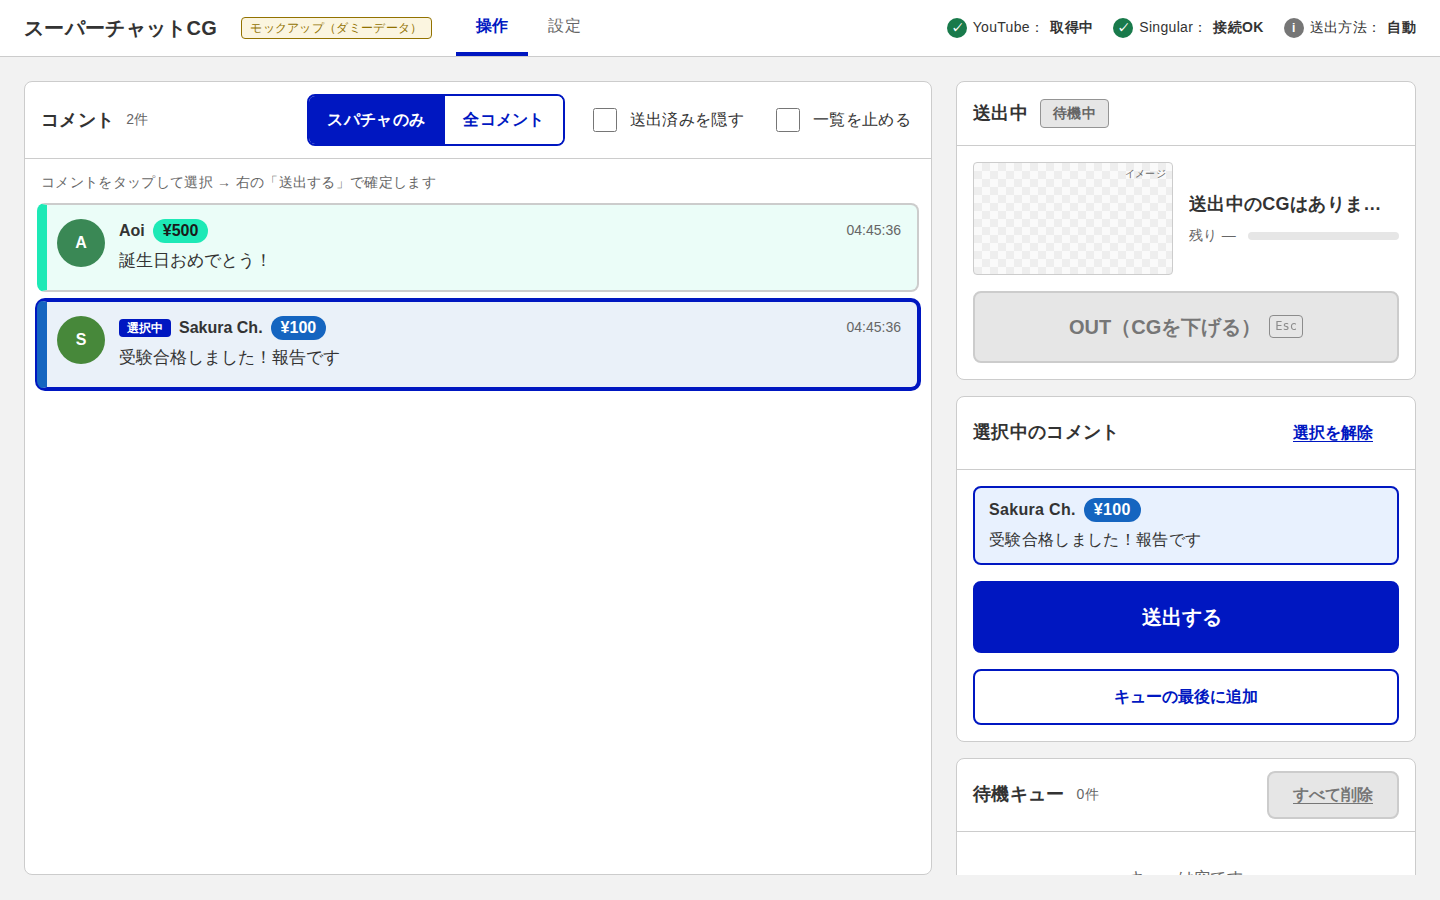
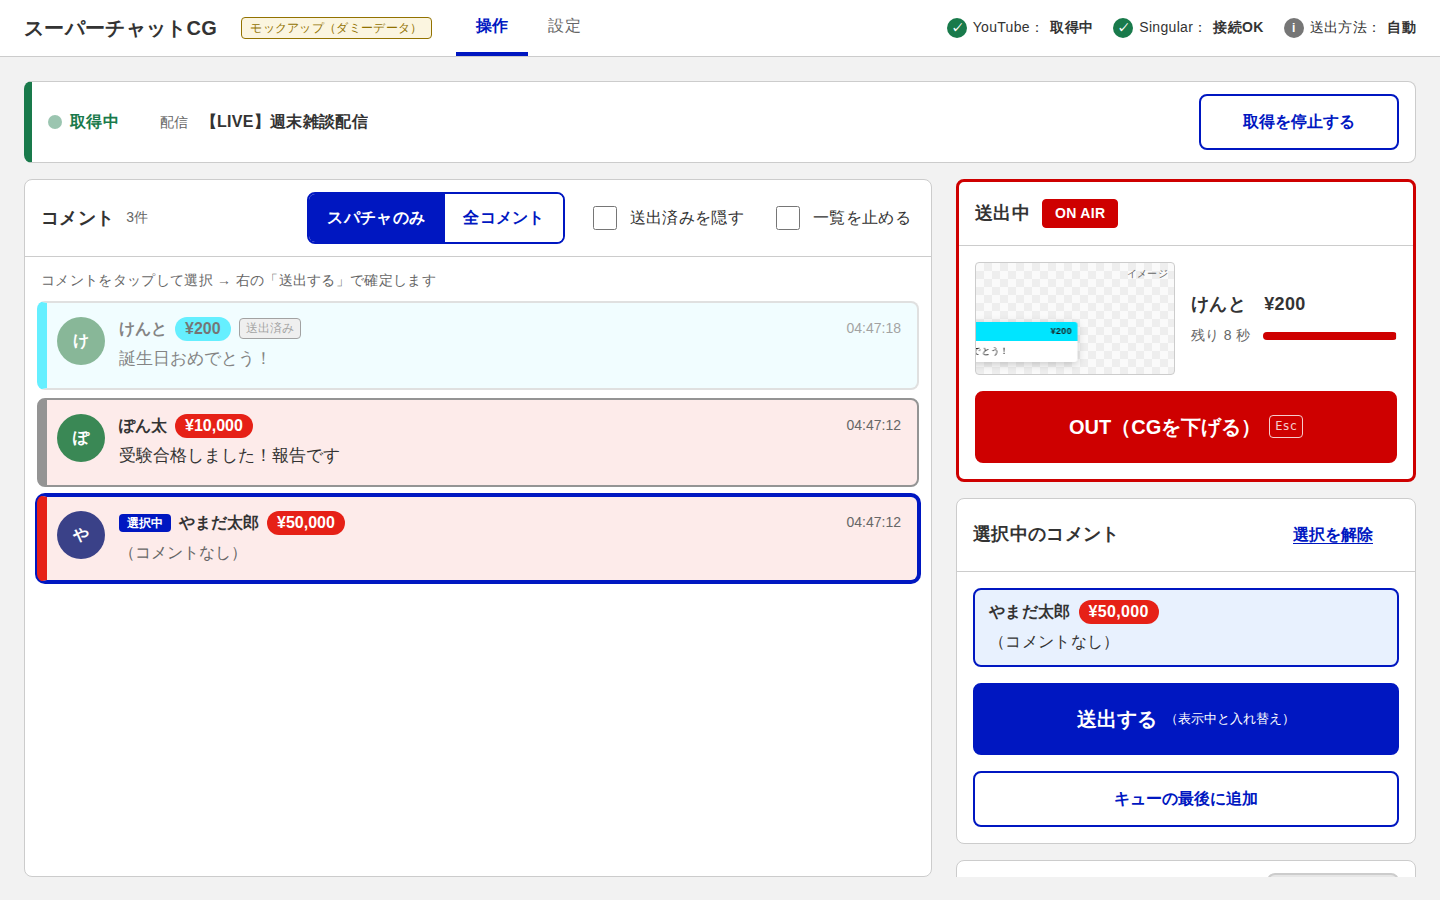
コメント取得の開始・停止を操作画面へ移動（停止時は確認ダイアログ）
Claude-Session: https://claude.ai/code/session_01KgT6C3iMZ94U8jAFNjMxFV

diff --git a/mockup/index.html b/mockup/index.html
@@ -24,6 +24,18 @@
 </header>
 
 <main>
+  <section class="live-bar" id="liveBar" aria-label="コメント取得">
+    <div class="live-state">
+      <span class="live-dot" aria-hidden="true"></span>
+      <b id="liveState">取得中</b>
+    </div>
+    <div class="live-title">
+      <span class="count">配信</span>
+      <span id="liveTitle">【LIVE】週末雑談配信</span>
+    </div>
+    <button class="btn btn-secondary" id="liveBtn">取得を停止する</button>
+  </section>
+
   <div class="ops">
     <!-- コメント一覧 -->
     <section class="card feed-card" aria-labelledby="feed-h">
@@ -133,7 +145,7 @@ function dummy(forceSc) {
 }
 
 // ============ 状態 ============
-const state = { mode: conf.fetchMode, msgs: [], queue: [], current: null, selected: null, outAt: 0, dur: 0 };
+const state = { running: true, mode: conf.fetchMode, msgs: [], queue: [], current: null, selected: null, outAt: 0, dur: 0 };
 const $ = id => document.getElementById(id);
 const esc = s => String(s).replace(/[&<>"]/g, c => ({ '&': '&amp;', '<': '&lt;', '>': '&gt;', '"': '&quot;' }[c]));
 const hms = d => d.toLocaleTimeString('ja-JP', { hour: '2-digit', minute: '2-digit', second: '2-digit' });
@@ -244,7 +256,7 @@ function receive(m) {
   state.msgs.unshift(m); state.msgs = state.msgs.slice(0, 300);
   if (conf.sendMode === 'auto' && m.type !== 'text') enqueue(m); else render();
 }
-setInterval(() => receive(dummy()), 1800);
+setInterval(() => { if (state.running) receive(dummy()); }, 1800);
 for (let i = 0; i < 4; i++) state.msgs.push({ ...dummy(i % 2 === 0), fresh: false });
 
 (function tick() {
@@ -284,6 +296,25 @@ document.addEventListener('keydown', e => {
   if (e.key === 'Escape') { out(); e.preventDefault(); }
   if (e.key === 'n' || e.key === 'N') $('nextBtn').click();
 });
+
+// コメント取得の開始・停止（停止は誤タップ防止のため確認あり）
+function renderLive() {
+  const on = state.running;
+  $('liveBar').classList.toggle('on', on);
+  $('liveState').textContent = on ? '取得中' : '停止中';
+  $('liveBtn').textContent = on ? '取得を停止する' : '取得を開始する';
+  $('liveBtn').className = 'btn ' + (on ? 'btn-secondary' : 'btn-primary');
+  const st = $('ytStatus'); st.className = 'status ' + (on ? 'ok' : 'off');
+  st.querySelector('.icon').textContent = on ? '✓' : '–';
+  $('ytLabel').textContent = on ? '取得中' : '停止中';
+}
+$('liveBtn').onclick = () => {
+  if (state.running && !confirm('コメントの取得を停止しますか？\n停止中に届いたスパチャは取り込まれません。')) return;
+  state.running = !state.running;
+  log(state.running ? 'YouTube の取得を開始しました' : 'YouTube の取得を停止しました');
+  renderLive();
+};
+renderLive();
 
 log('YouTube の取得を開始しました（ダミー）');
 render();

diff --git a/mockup/style.css b/mockup/style.css
@@ -73,10 +73,22 @@ kbd { font-family: "Noto Sans Mono", monospace; font-size: .75rem; border: 1px s
 /* ================= 操作画面 ================= */
 .ops { display: grid; grid-template-columns: minmax(0, 1fr) 460px; gap: 24px; align-items: start; }
 @media (max-width: 1100px) { .ops { grid-template-columns: 1fr; } }
-.feed-card { display: flex; flex-direction: column; height: calc(100vh - 106px); min-height: 480px; }
+.feed-card { display: flex; flex-direction: column; height: calc(100vh - 202px); min-height: 480px; }
 .feed-scroll { overflow: auto; flex: 1; padding: 12px; overscroll-behavior: contain; }
-.side { display: grid; gap: 16px; align-content: start; }
-@media (min-width: 1101px) { .side { max-height: calc(100vh - 106px); overflow: auto; overscroll-behavior: contain; padding-bottom: 8px; } }
+.side { display: grid; grid-template-columns: minmax(0, 1fr); gap: 16px; align-content: start; min-width: 0; }
+@media (min-width: 1101px) { .side { max-height: calc(100vh - 202px); overflow: auto; overscroll-behavior: contain; padding-bottom: 8px; } }
+
+/* コメント取得バー */
+.live-bar { display: flex; align-items: center; gap: 24px; padding: 12px 16px; margin-bottom: 16px; background: #fff; border: 1px solid var(--gray-200); border-left: 8px solid var(--gray-536); border-radius: var(--radius); flex-wrap: wrap; }
+.live-bar.on { border-left-color: var(--green-800); }
+.live-state { display: flex; align-items: center; gap: 8px; min-width: 88px; }
+.live-dot { width: 14px; height: 14px; border-radius: 50%; background: var(--gray-536); }
+.live-bar.on .live-dot { background: var(--green-800); animation: pulse 1.6s ease-in-out infinite; }
+.live-bar.on .live-state b { color: var(--green-800); }
+@keyframes pulse { 50% { opacity: .35; } }
+.live-title { display: flex; align-items: baseline; gap: 12px; flex: 1; min-width: 0; }
+.live-title #liveTitle { font-weight: 700; overflow: hidden; text-overflow: ellipsis; white-space: nowrap; }
+.live-bar .btn { min-width: 200px; }
 
 /* セグメント（48px 以上） */
 .seg { display: inline-flex; border: 2px solid var(--blue-900); border-radius: var(--radius); overflow: hidden; }

diff --git a/mockup/settings.html b/mockup/settings.html
@@ -71,10 +71,7 @@
             <select class="input" id="ytBacklog" aria-describedby="ytBacklog-s"><option>取り込まない</option><option>取り込む</option></select>
           </div>
         </div>
-        <div class="with-btn" style="align-items:center">
-          <button type="button" class="btn btn-primary" id="startBtn">取得を停止する</button>
-          <p class="support" id="ytNow">取得中：「【LIVE】週末雑談配信」</p>
-        </div>
+        <p class="support">コメント取得の開始・停止は<a href="index.html">操作画面</a>で行います。</p>
       </div>
     </section>
 
@@ -182,16 +179,6 @@ document.querySelectorAll('[data-toggle]').forEach(b => b.onclick = () => {
 });
 $('testConn').onclick = () => { $('testResult').textContent = '✓ 接続できました。サブコンポジション「SuperChat」が見つかりました'; };
 $('testSend').onclick = () => { $('testResult').textContent = '✓ テストデータを送出しました（Singular の出力を確認してください）'; };
-let running = true;
-$('startBtn').onclick = e => {
-  running = !running;
-  e.target.textContent = running ? '取得を停止する' : '取得を開始する';
-  $('ytNow').textContent = running ? '取得中：「【LIVE】週末雑談配信」' : '停止中';
-  const s = $('ytStatus'); s.className = 'status ' + (running ? 'ok' : 'off');
-  s.querySelector('.icon').textContent = running ? '✓' : '–';
-  $('ytLabel').textContent = running ? '取得中' : '停止中';
-};
-
 // 保存（入力チェックのデモ）
 $('settingsForm').onsubmit = e => {
   e.preventDefault();
